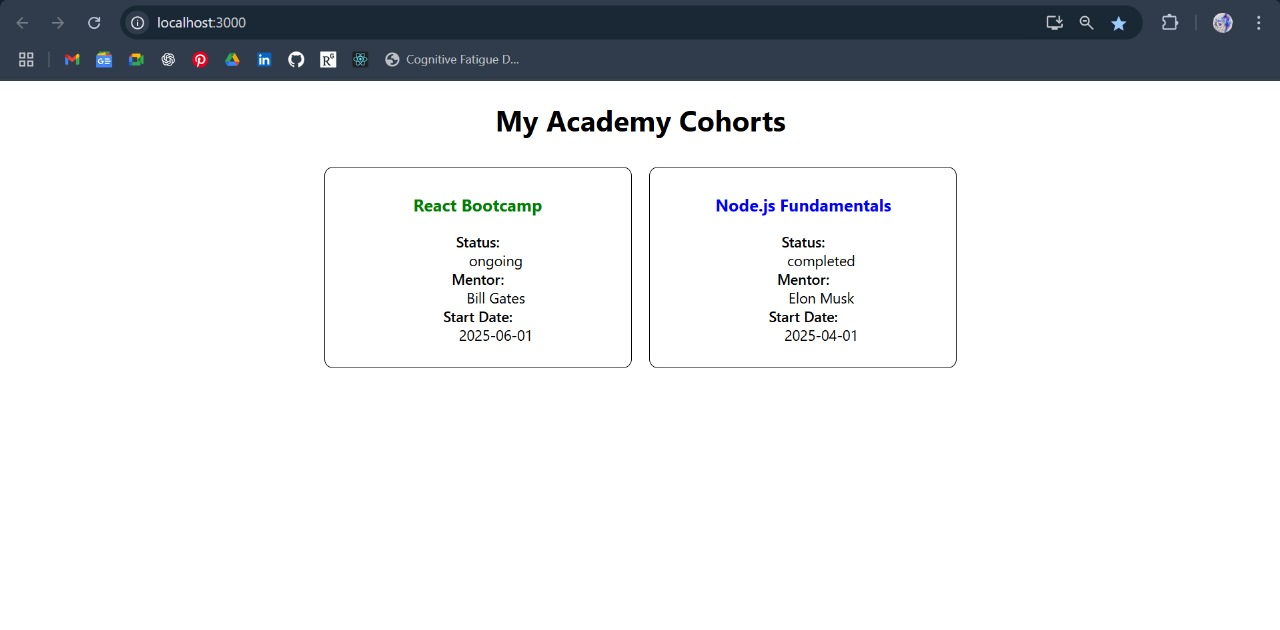
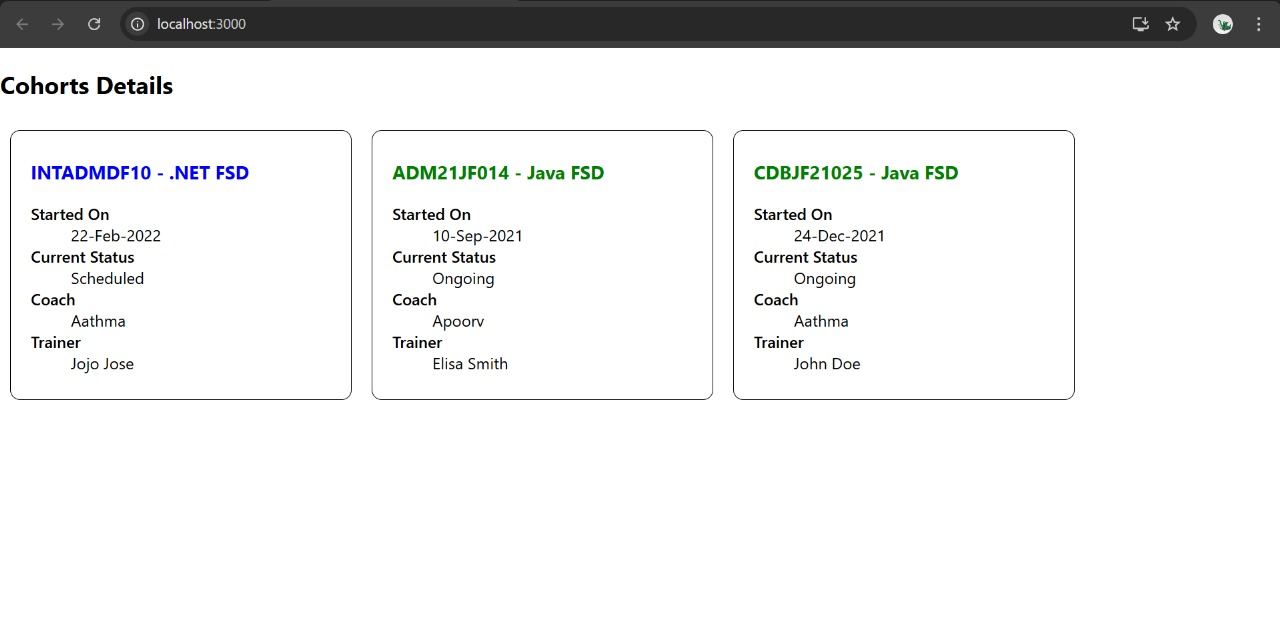
WEEK 6 React Hands-on Submission

diff --git a/WEEK-6 Hands_on Submission/ReactJS-HOL Hands-on Solution(week-6)/5. ReactJS-HOL Solution/cohorttracker/src/CohortDetails.js b/WEEK-6 Hands_on Submission/ReactJS-HOL Hands-on Solution(week-6)/5. ReactJS-HOL Solution/cohorttracker/src/CohortDetails.js
@@ -1,24 +1,60 @@
 import React from 'react';
 import styles from './CohortDetails.module.css';
 
-function CohortDetails({ name, status, mentor, startDate }) {
-  const statusStyle = {
+const cohorts = [
+  {
+    id: 'INTADMDF10',
+    name: '.NET FSD',
+    startDate: '22-Feb-2022',
+    status: 'Scheduled',
+    coach: 'Aathma',
+    trainer: 'Jojo Jose'
+  },
+  {
+    id: 'ADM21JF014',
+    name: 'Java FSD',
+    startDate: '10-Sep-2021',
+    status: 'Ongoing',
+    coach: 'Apoorv',
+    trainer: 'Elisa Smith'
+  },
+  {
+    id: 'CDBJF21025',
+    name: 'Java FSD',
+    startDate: '24-Dec-2021',
+    status: 'Ongoing',
+    coach: 'Aathma',
+    trainer: 'John Doe'
+  }
+];
+
+const CohortDetails = () => {
+  const getHeadingStyle = (status) => ({
     color: status.toLowerCase() === 'ongoing' ? 'green' : 'blue'
-  };
+  });
 
   return (
-    <div className={styles.box}>
-      <h3 style={statusStyle}>{name}</h3>
-      <dl>
-        <dt>Status:</dt>
-        <dd>{status}</dd>
-        <dt>Mentor:</dt>
-        <dd>{mentor}</dd>
-        <dt>Start Date:</dt>
-        <dd>{startDate}</dd>
-      </dl>
+    <div>
+      <h2>Cohorts Details</h2>
+      {cohorts.map((cohort, index) => (
+        <div key={index} className={styles.box}>
+          <h3 style={getHeadingStyle(cohort.status)}>
+            {cohort.id} - {cohort.name}
+          </h3>
+          <dl>
+            <dt>Started On</dt>
+            <dd>{cohort.startDate}</dd>
+            <dt>Current Status</dt>
+            <dd>{cohort.status}</dd>
+            <dt>Coach</dt>
+            <dd>{cohort.coach}</dd>
+            <dt>Trainer</dt>
+            <dd>{cohort.trainer}</dd>
+          </dl>
+        </div>
+      ))}
     </div>
   );
-}
+};
 
 export default CohortDetails;

diff --git a/WEEK-6 Hands_on Submission/ReactJS-HOL Hands-on Solution(week-6)/5. ReactJS-HOL Solution/cohorttracker/src/App.js b/WEEK-6 Hands_on Submission/ReactJS-HOL Hands-on Solution(week-6)/5. ReactJS-HOL Solution/cohorttracker/src/App.js
@@ -1,13 +1,10 @@
 import React from 'react';
-import './App.css';
 import CohortDetails from './CohortDetails';
 
 function App() {
   return (
     <div className="App">
-      <h1>My Academy Cohorts</h1>
-      <CohortDetails name="React Bootcamp" status="ongoing" mentor="Bill Gates " startDate="2025-06-01" />
-      <CohortDetails name="Node.js Fundamentals" status="completed" mentor="Elon Musk" startDate="2025-04-01" />
+      <CohortDetails />
     </div>
   );
 }
